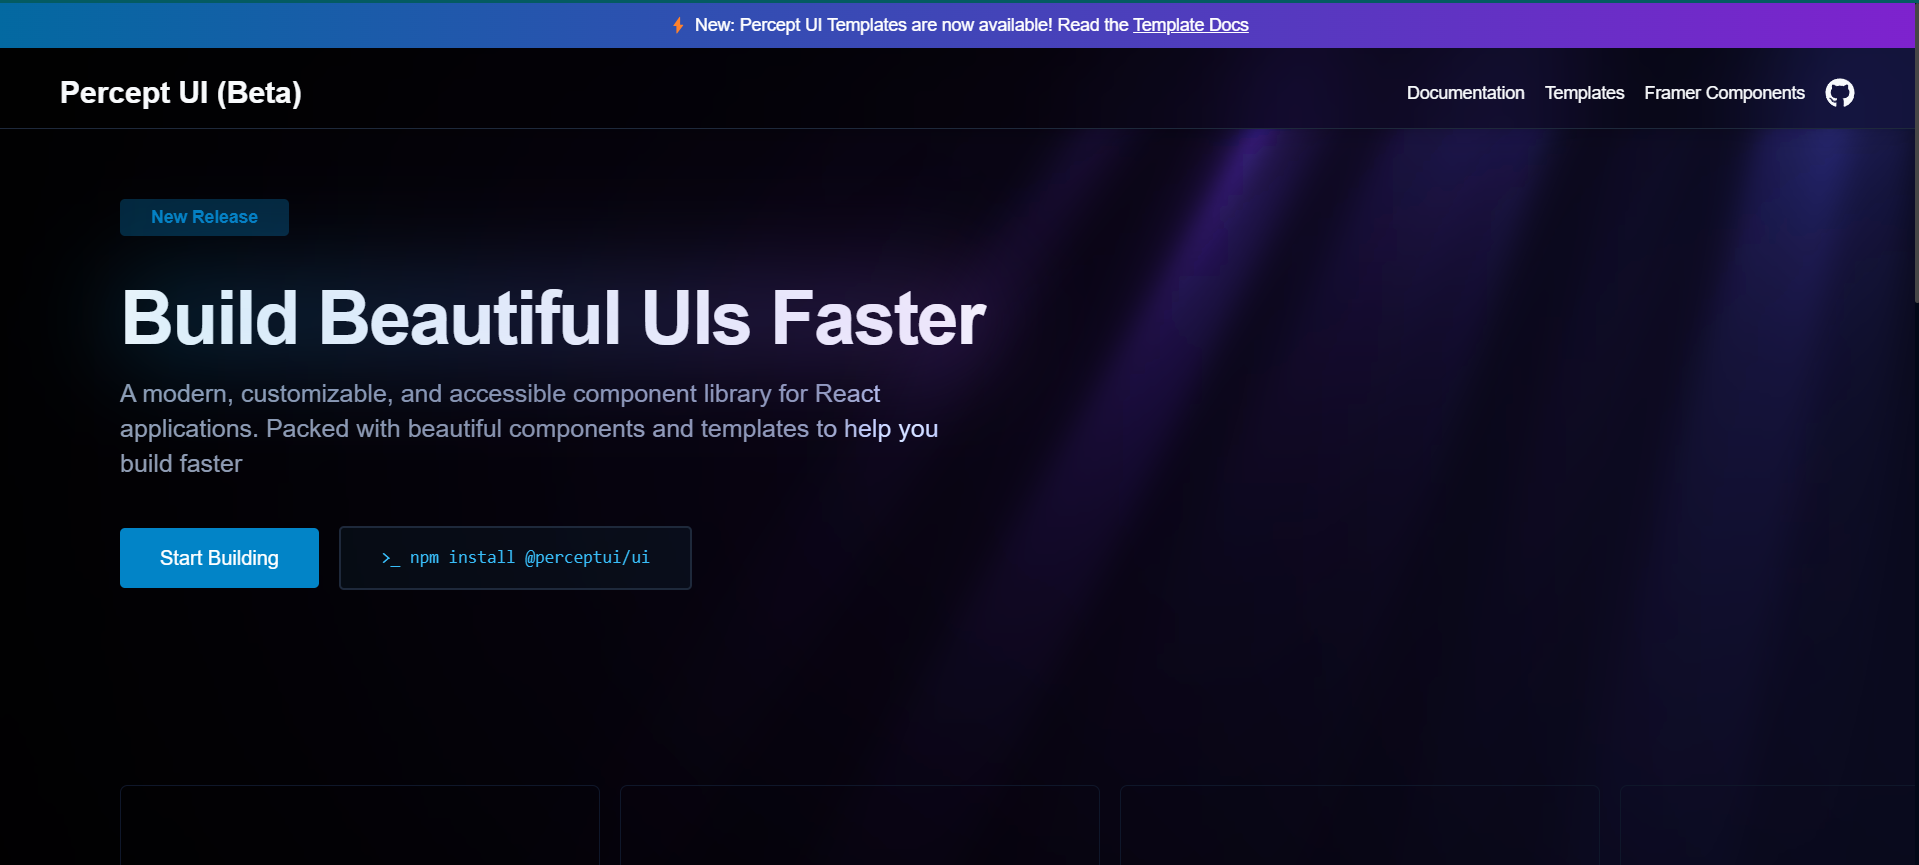
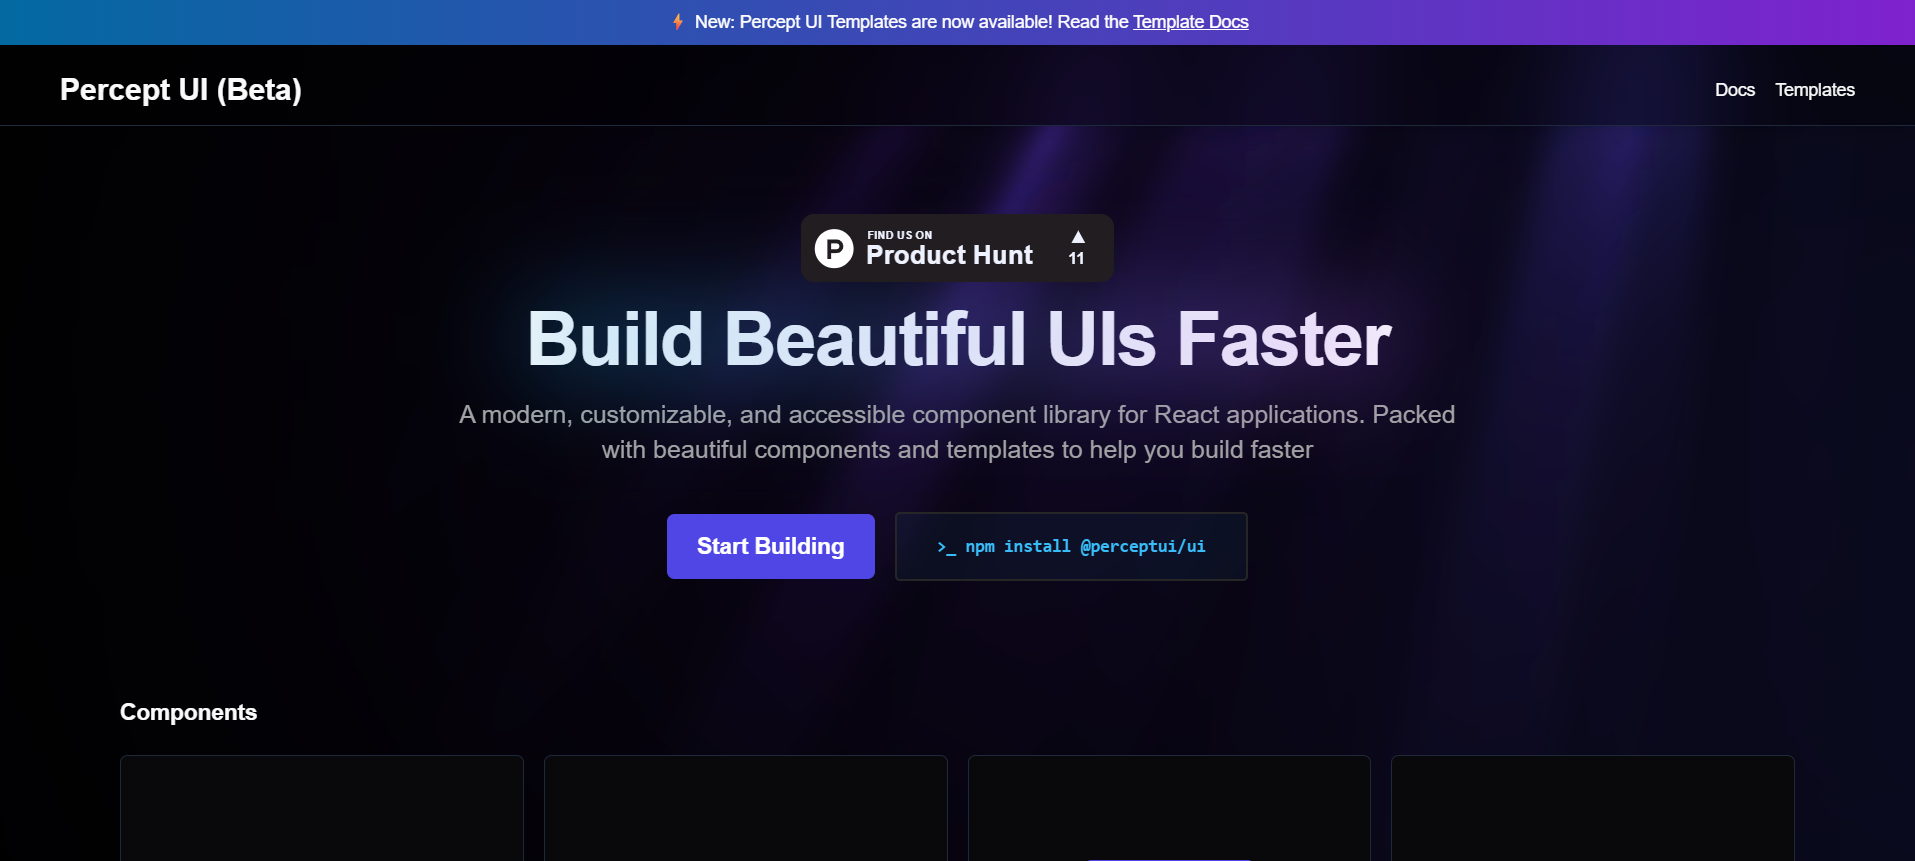
feat: add new screenshots and update project URLs in data.ts

diff --git a/src/lib/data.ts b/src/lib/data.ts
@@ -74,7 +74,7 @@ export const PROJECTS: Project[] = [
     featured: true,
     year: 2025,
     status: 'Live',
-    screenshots: ['/flowcms.png'],
+    screenshots: ['/flowcms.png', '/flowcms-demo.png', '/flowcms-dashboard.png', '/flowcms-api-keys.png'],
     keyFeatures: [
       'Drag-and-drop visual page builder',
       'Real-time content preview',
@@ -90,12 +90,12 @@ export const PROJECTS: Project[] = [
     longDescription:
       'Rune Lang is a custom-built, interpreted programming language designed for learning and experimentation. It features a natural, readable syntax built entirely from scratch in Python — including its own lexer, parser, AST system, and tree-walk interpreter. A companion VS Code extension adds syntax highlighting and developer ergonomics.',
     tags: ['Python', 'Lexer', 'Parser', 'AST', 'Interpreter', 'Language Design'],
-    url: 'https://rune.kapiljangid.live',
+    url: 'https://rune.kapiljangid.pro',
     type: 'language',
     featured: true,
     year: 2024,
     status: 'Live',
-    screenshots: ['/rune-dark.png', '/rune-light.png'],
+    screenshots: ['/rune-dark.png', '/rune-light.png', '/rune-docs.png'],
     keyFeatures: [
       'Custom lexer and tokenizer built from scratch',
       'Recursive descent parser',
@@ -139,13 +139,13 @@ export const PROJECTS: Project[] = [
     longDescription:
       'A modern, accessible, and customizable component library for React. Includes high-quality UI components, templates, and a CLI for scaffolding projects. Published on npm.',
     tags: ['React', 'TypeScript', 'Tailwind CSS', 'Nextra', 'Next.js', 'npm', 'Vite'],
-    url: 'https://perceptui.codebrise.tech',
+    url: 'https://v1.perceptui.kapiljangid.live',
     github: 'https://github.com/perceptui/ui',
     type: 'tool',
     featured: false,
     year: 2024,
     status: 'Live',
-    screenshots: ['/perceptui.png'],
+    screenshots: ['/perceptui.png', '/perceptui-cli.png', '/perceptui-doc-1.png', '/perceptui-avatar-example.png'],
     keyFeatures: [
       'React component library with full TypeScript support',
       'CLI for scaffolding projects with Percept components',
